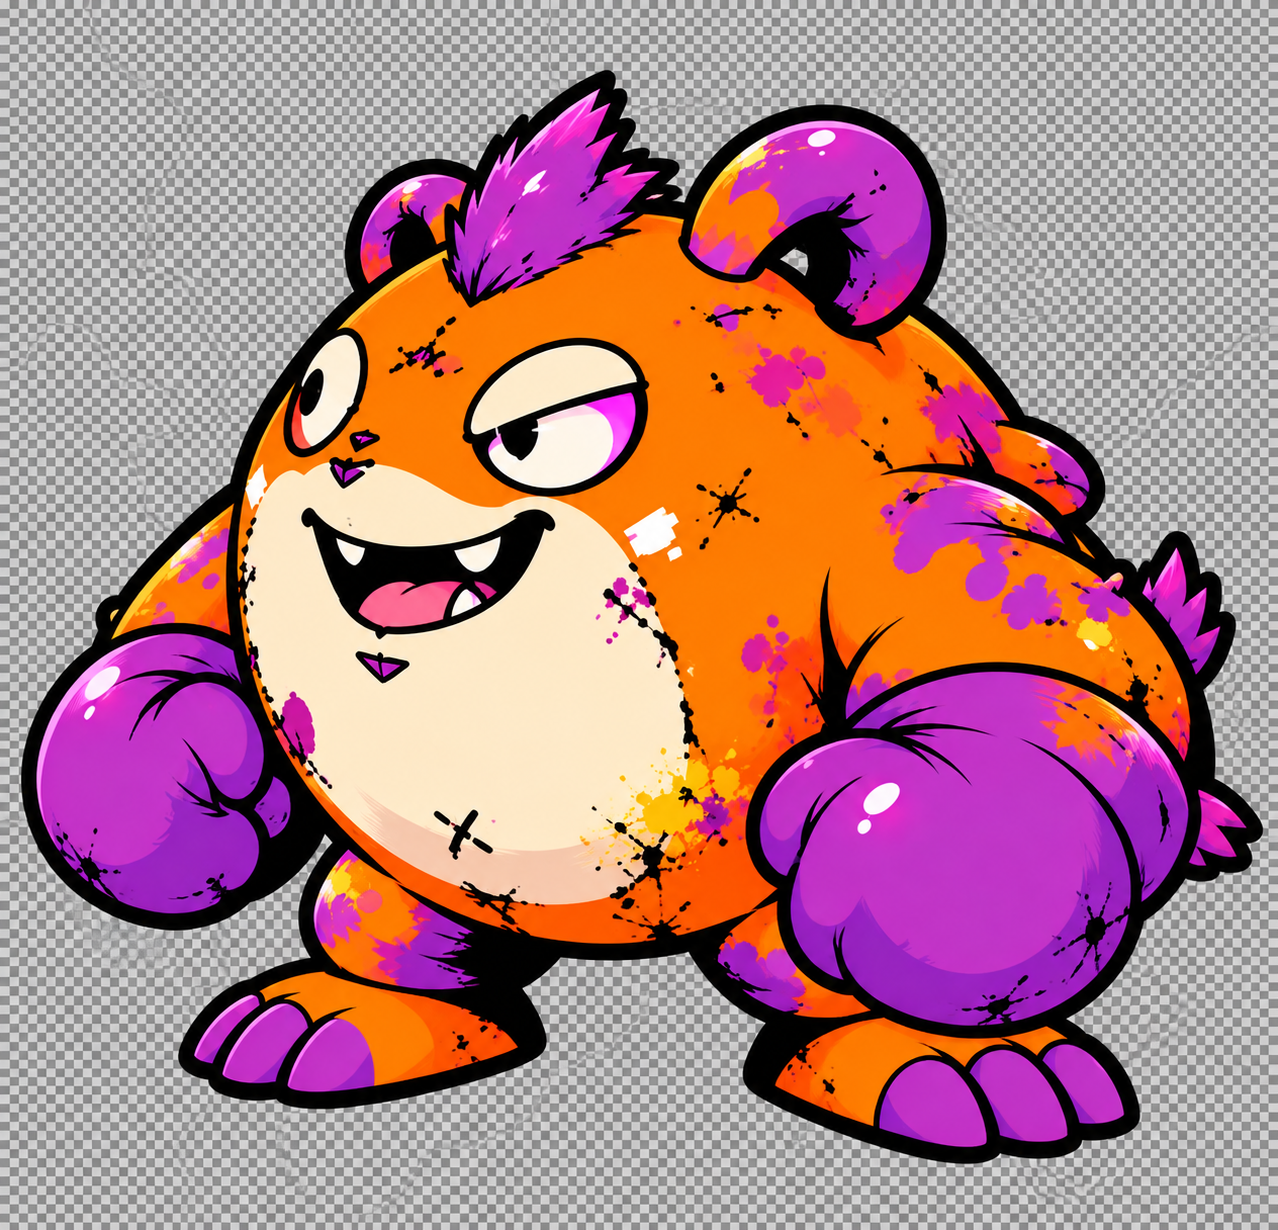
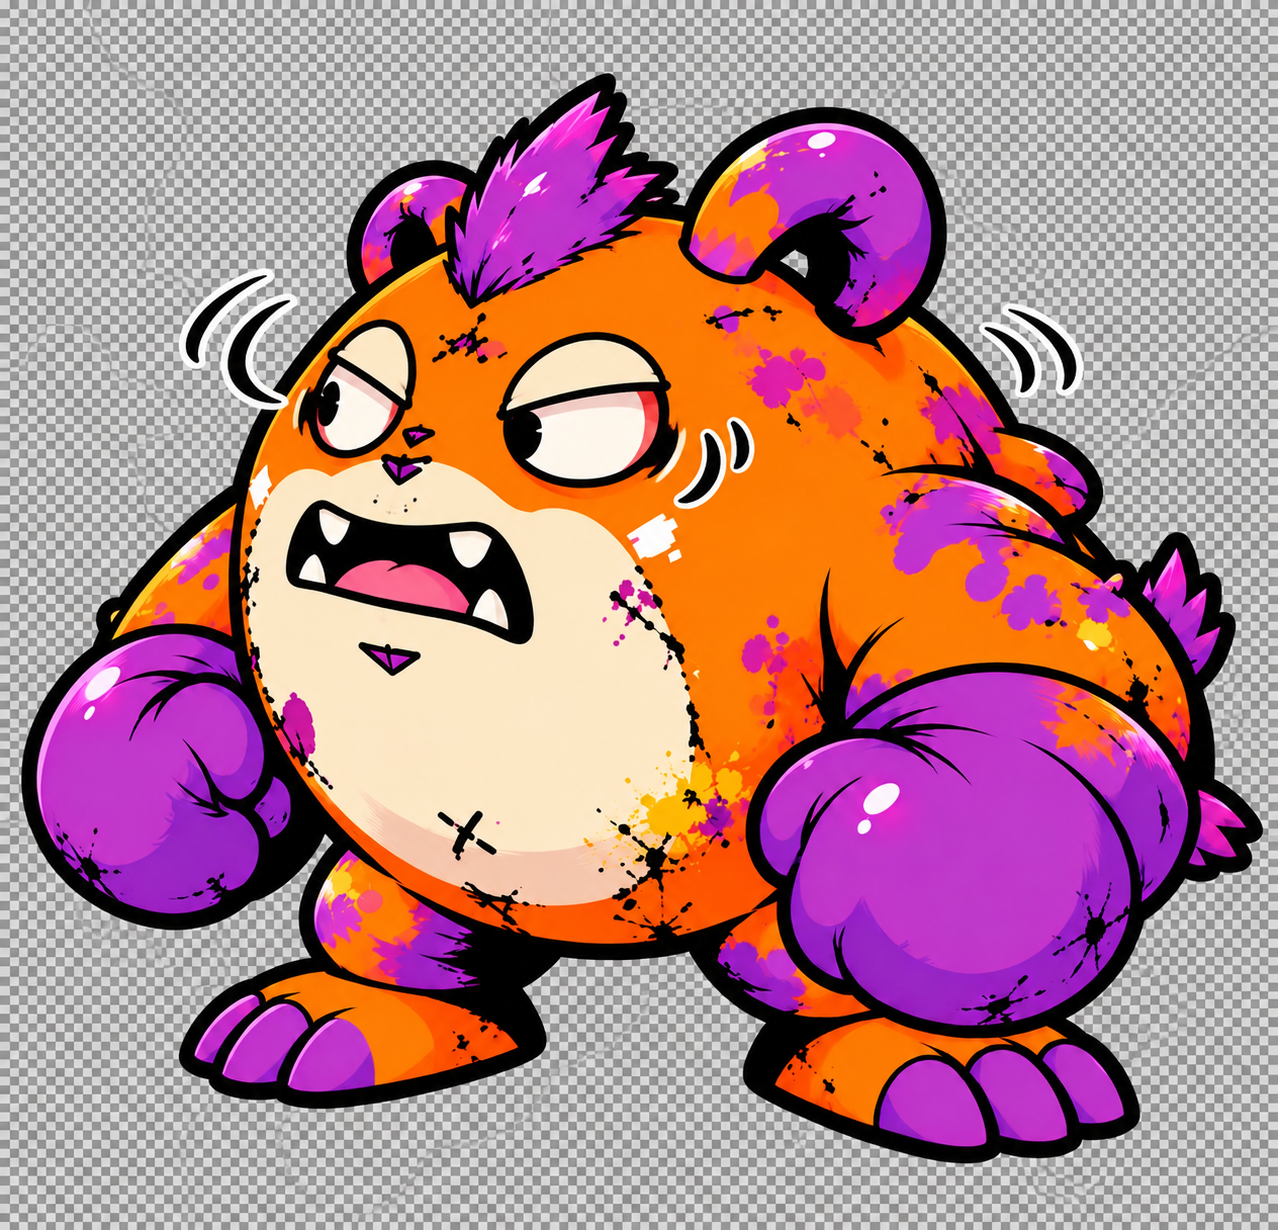
BUNK: new look-around pose
Claude-Session: https://claude.ai/code/session_01MXithgTc5umkveoyZShZHQ

diff --git a/design/bunk/poses/make_poses.py b/design/bunk/poses/make_poses.py
@@ -21,7 +21,7 @@ HEIGHT = 520
 
 
 # 2026-10-21 からの新しい絵(チェック柄が明るい灰色と白)。remove_checker_v2 で切り抜く
-NEW_ART = {'hungry'}
+NEW_ART = {'hungry', 'look'}
 
 
 def remove_checker_v2(im: Image.Image) -> Image.Image:

diff --git a/design/bunk/README.md b/design/bunk/README.md
@@ -8,7 +8,7 @@
 - 腕を下ろした姿（ふつう）も新しい絵 `reference/bunk_down_v2.png` にした（2026-10-21）。正面を向いているので、顔ではなく足元で位置をそろえた（(14,16) ずらす）。パーツ分けは `reference/pose_down/split.json`（目のパーツも入れて、反転したときの目の位置に使う）。
 - 表情の顔（新しい絵）は `tools/build_bunk_faces_v2.py design/bunk/reference/pose_down/faces_v2.json` で作る。表情の絵は ふつうの絵と少しだけ大きさ・位置がちがうので、線が重なるように合わせてから、ちがう所（顔）だけ切り出す。
   - 2026-10-21：目を閉じた顔（`pose_down/v2_closed.png`）・怒った顔（`v2_angry.png`）・悲しい顔（`v2_sad.png`）・喜んだ顔（`v2_happy.png`）。表情は4つそろった。届いた表情から `faces_v2.json` の faces と `bunkMotion.json` の faces.names に足す。
-  - 新しい表情の顔は腕を下ろした姿（正面）に合わせているので、構えた姿ではまばたきしない。反応の顔を出すときは腕を下ろした姿になる（`facesOnlyDown`）。お世話画面の6つの姿は、とどくまで前の絵のまま。とどいた姿は `design/bunk/poses/<名前>.png` に置いて `python3 design/bunk/poses/make_poses.py <名前>` で作り直す（前の絵は `<名前>_v1.png`）。新しい絵は `NEW_ART` に入れる（明るいチェック柄の消し方）。2026-10-21：おなかすいた（hungry）。
+  - 新しい表情の顔は腕を下ろした姿（正面）に合わせているので、構えた姿ではまばたきしない。反応の顔を出すときは腕を下ろした姿になる（`facesOnlyDown`）。お世話画面の6つの姿は、とどくまで前の絵のまま。とどいた姿は `design/bunk/poses/<名前>.png` に置いて `python3 design/bunk/poses/make_poses.py <名前>` で作り直す（前の絵は `<名前>_v1.png`）。新しい絵は `NEW_ART` に入れる（明るいチェック柄の消し方）。2026-10-21：おなかすいた（hungry）・見回す（look）。
 
 以下は前の絵のときの記録。
 
